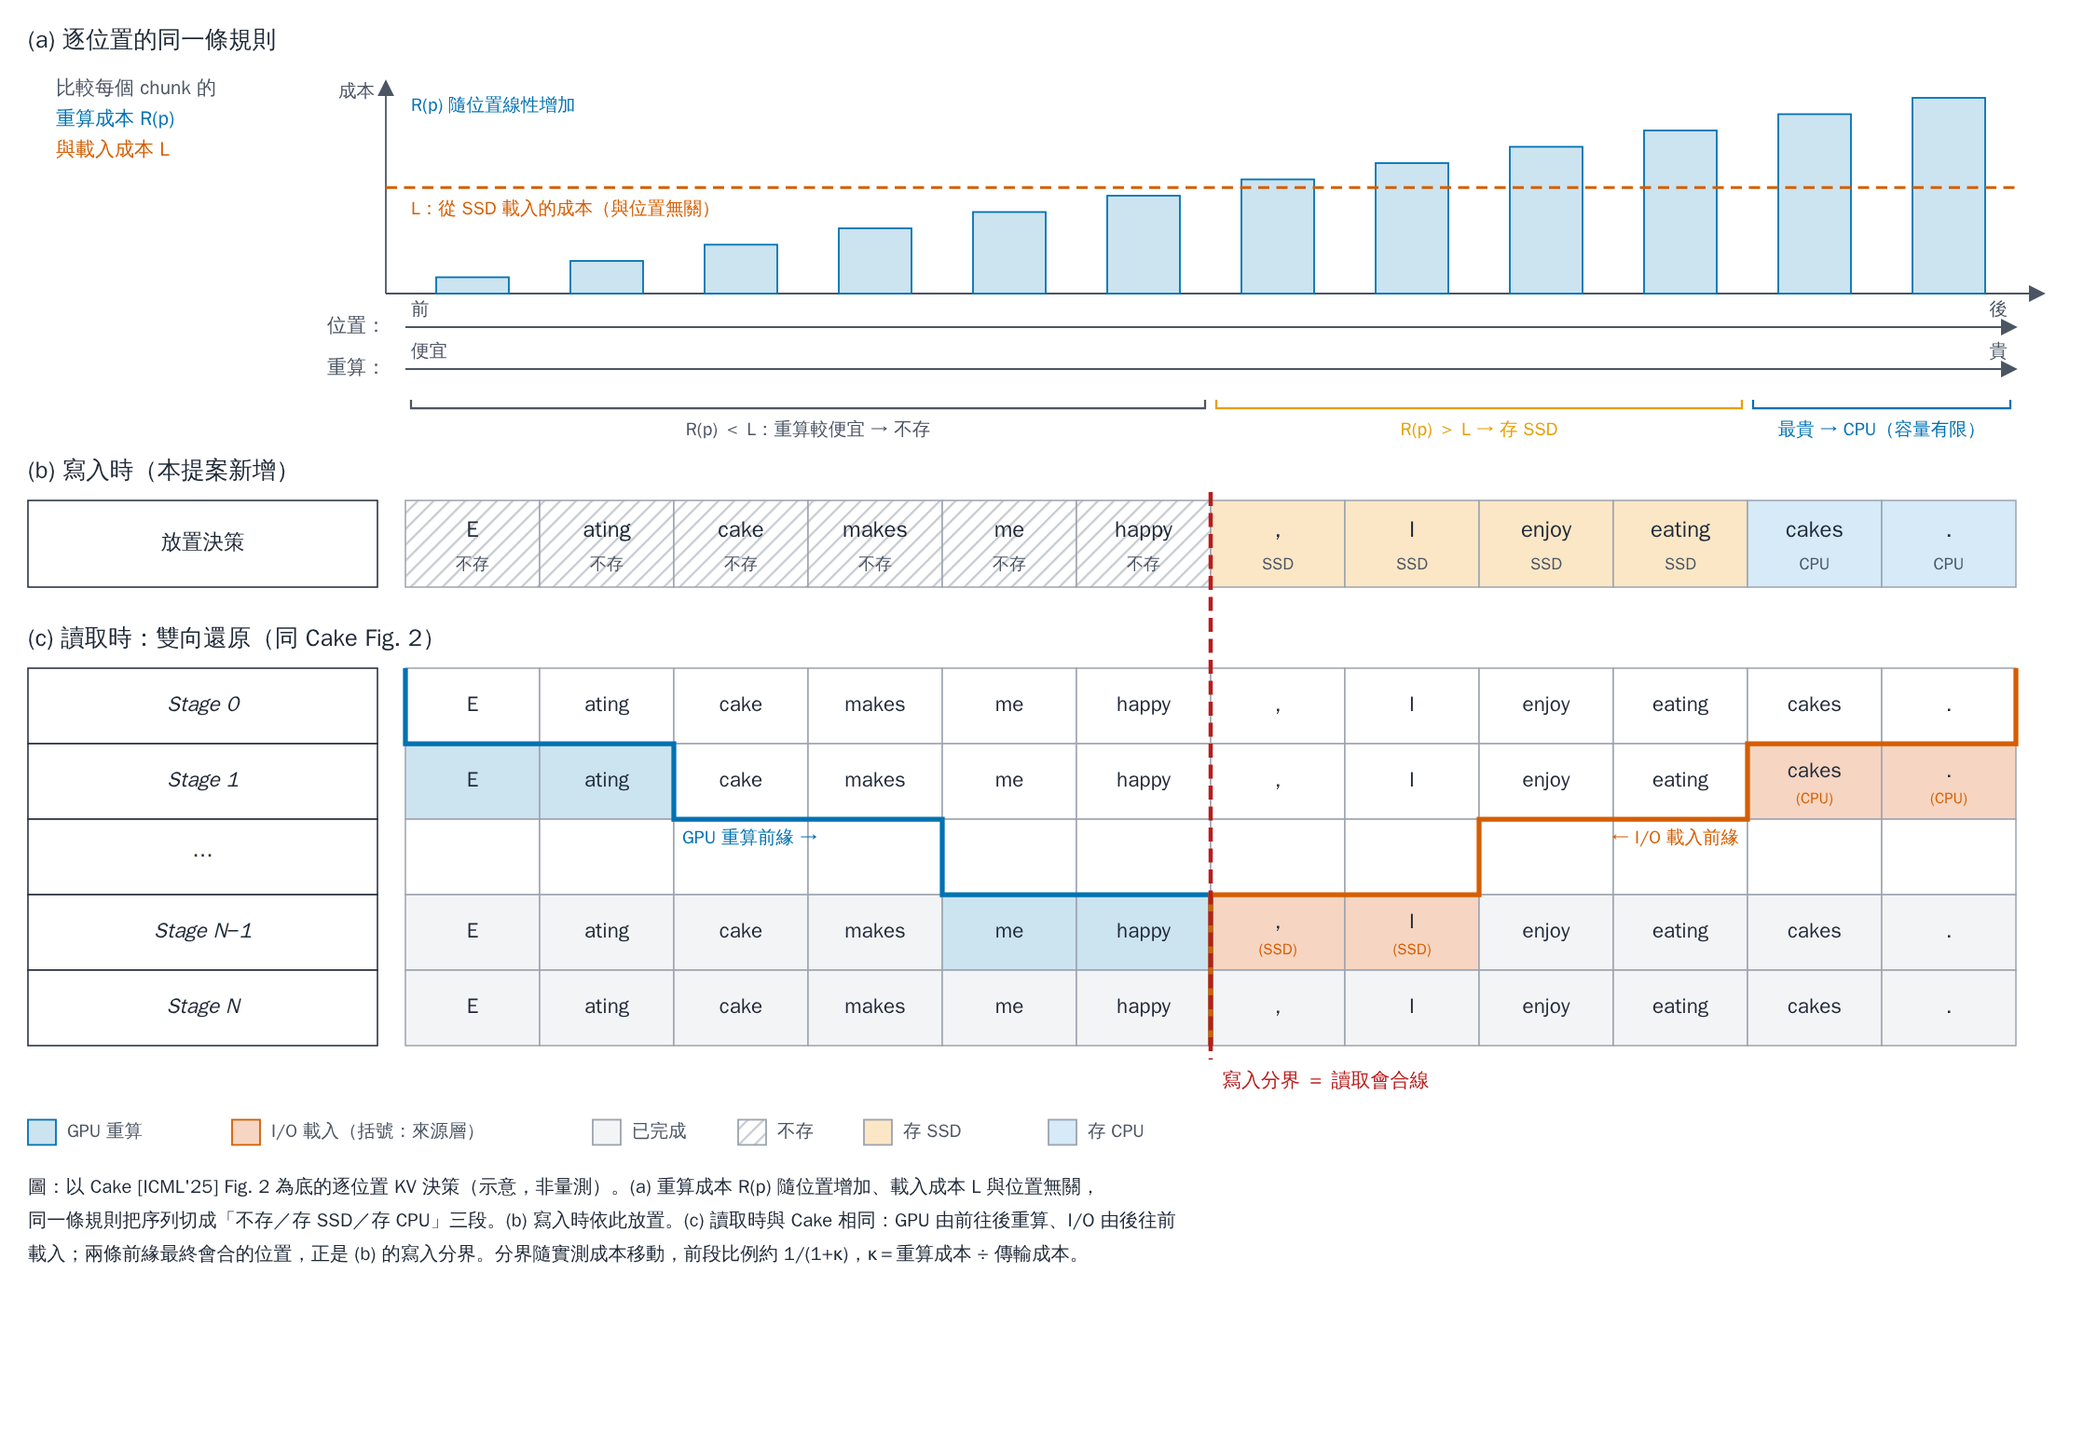
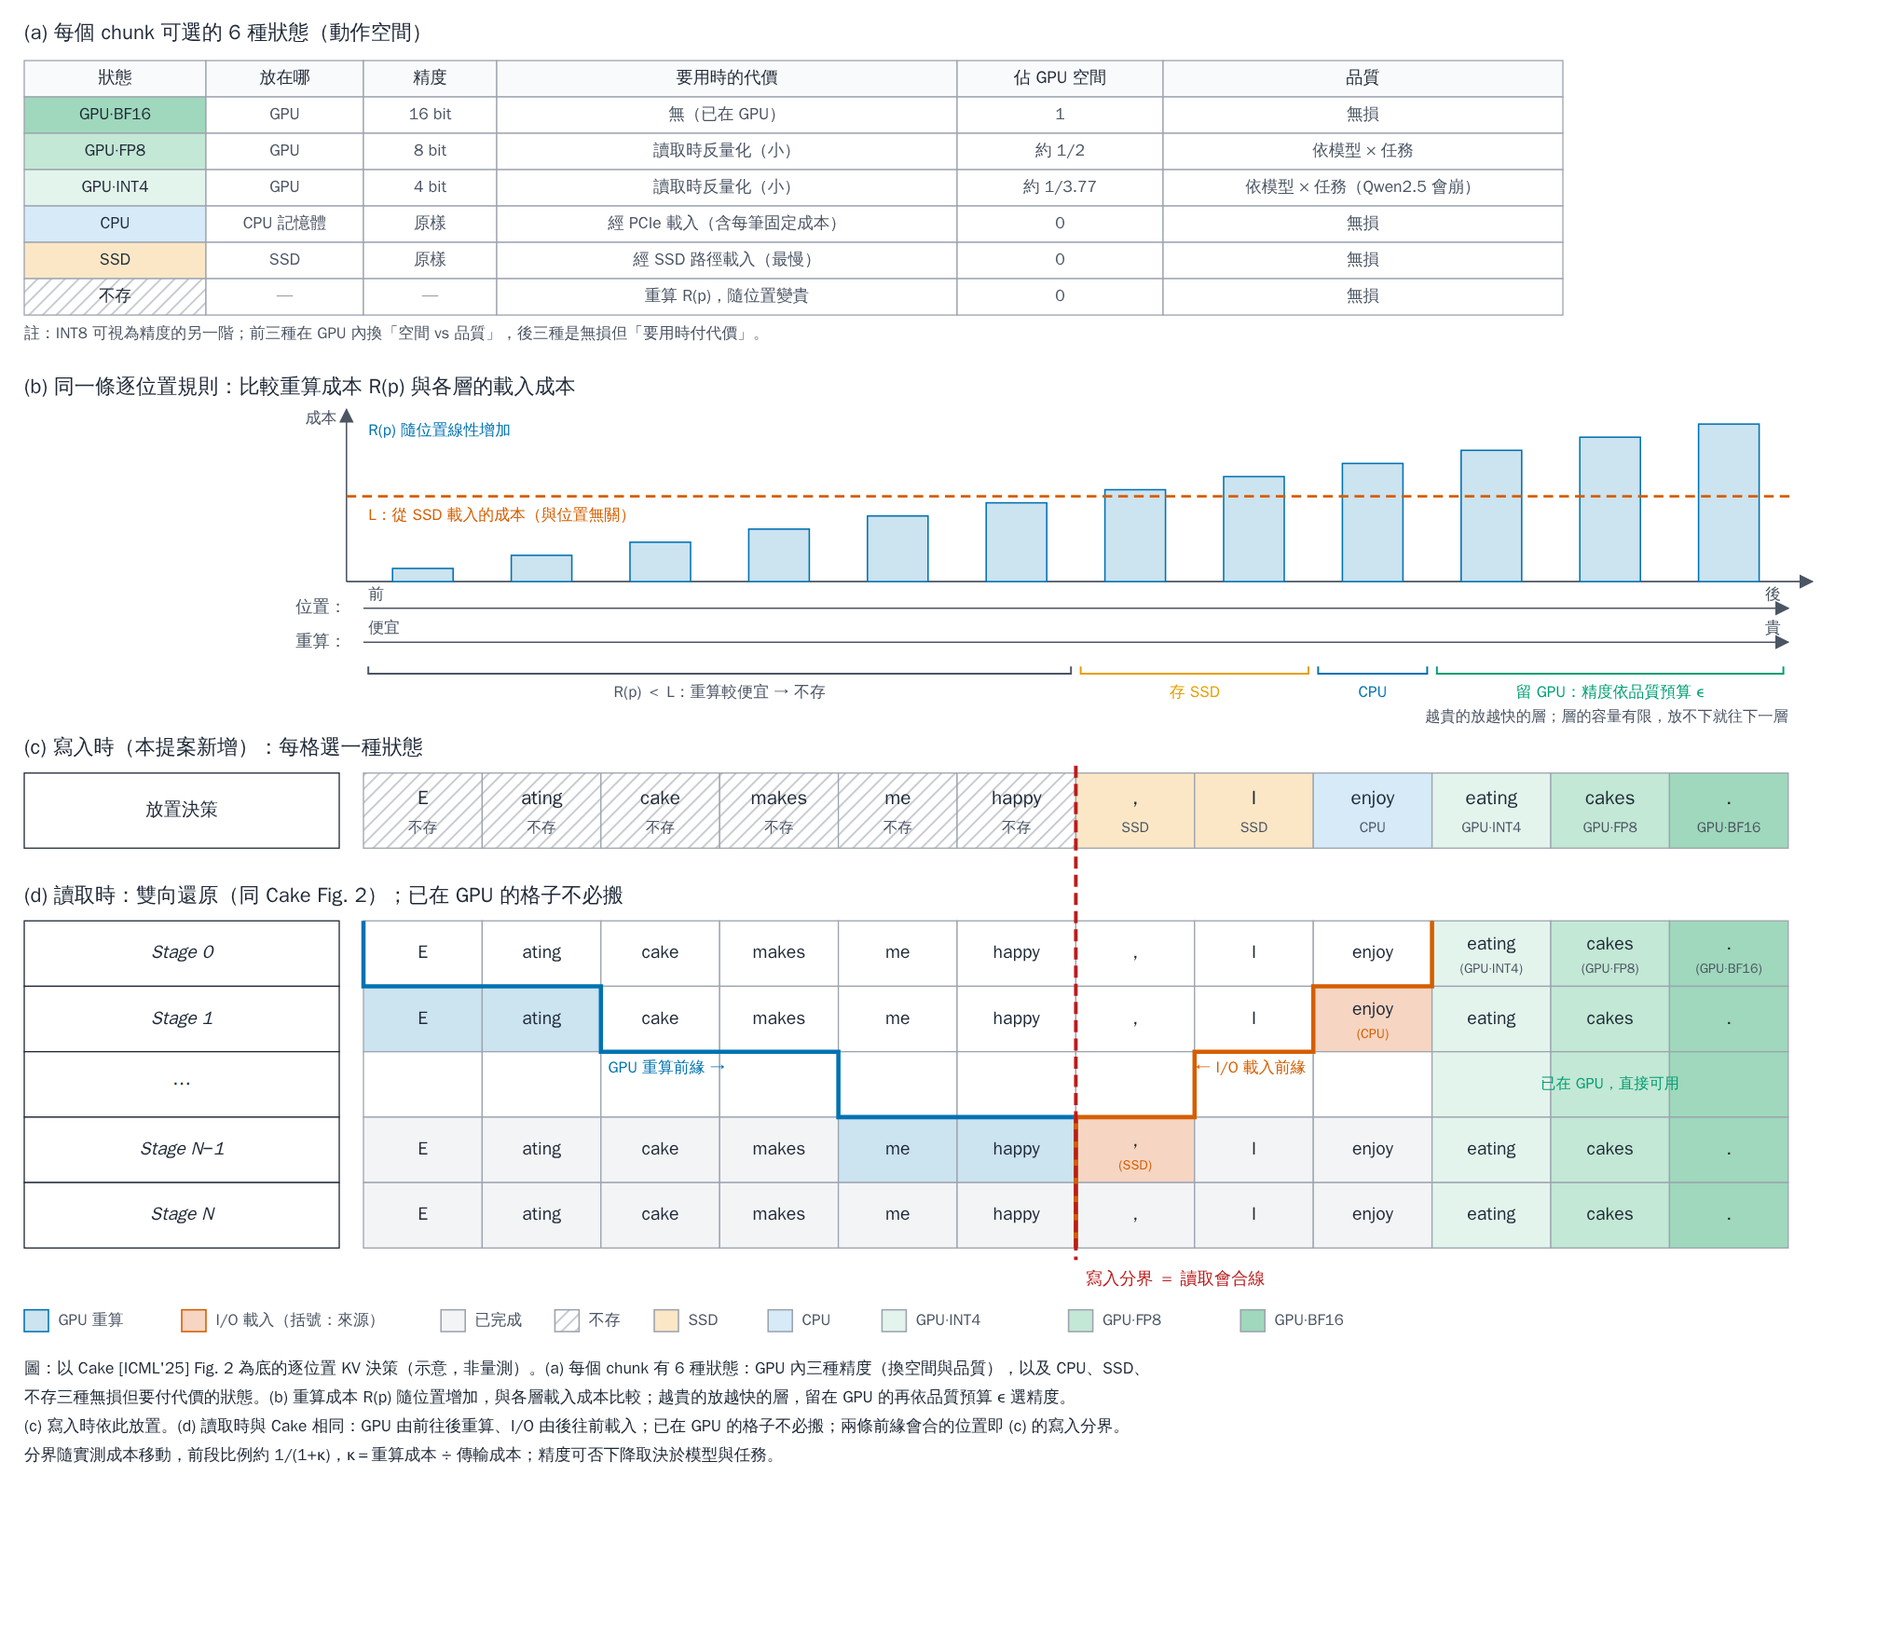
docs: 核心圖加入完整六態動作空間（GPU BF16/FP8/INT4、CPU、SSD、不存）
(a) 六態一覽表；(b) 逐位置規則延伸到 GPU 精度；(c) 寫入列出現全部狀態；
(d) 已在 GPU 的格子不必搬，前緣會合於寫入分界。

Claude-Session: https://claude.ai/code/session_01U1h9GuDMapTtPQi1jT6yJS

diff --git a/figures/specs/make_fig_cake_staircase.py b/figures/specs/make_fig_cake_staircase.py
@@ -1,107 +1,126 @@
-"""產生 figures/fig_cake_staircase.svg（學術風格）。
-以 Cake Fig. 2 為底：(a) 逐位置的同一條規則、(b) 寫入時的放置、(c) 讀取時的雙向還原；
-寫入分界與讀取會合線為同一條線。所有數值為示意，不是量測。"""
+"""產生 figures/fig_cake_staircase.svg（學術風格）：六態動作空間＋逐位置決策＋寫入分界＝讀取會合線。
+以 Cake Fig. 2 為底。所有數值與分界為示意，不是量測。"""
 toks=['E','ating','cake','makes','me','happy',',','I','enjoy','eating','cakes','.']
-N=12; MEET=6; CPU_FROM=10
-W=1500; X0=290; CW=96; RH=54; GRID='#9CA3AF'; INK='#1F2937'; MUTED='#4B5563'
+N=12; MEET=6
+# 每格狀態（示意）：0-5 不存、6-7 SSD、8 CPU、9 GPU-INT4、10 GPU-FP8、11 GPU-BF16
+state=['DROP']*6+['SSD','SSD','CPU','INT4','FP8','BF16']
+GPU0=9
+W=1560; X0=300; CW=98; RH=54; GRID='#9CA3AF'; INK='#1F2937'; MUTED='#4B5563'
 F='WenQuanYi Zen Hei, Noto Sans CJK TC, sans-serif'
-# Okabe–Ito
-BLUE='#0072B2'; VERM='#D55E00'; SKY='#56B4E9'; ORNG='#E69F00'
-C_COMP='#CCE3F0'; C_LOAD='#F6D5C2'; C_DONE='#F3F4F6'; C_SSD='#FBE7C6'; C_CPU='#D6EAF8'
+BLUE='#0072B2'; VERM='#D55E00'; ORNG='#E69F00'; GREEN='#009E73'
+C_COMP='#CCE3F0'; C_LOAD='#F6D5C2'; C_DONE='#F3F4F6'
+FILL={'DROP':'url(#hatch)','SSD':'#FBE7C6','CPU':'#D6EAF8','INT4':'#E3F4EC','FP8':'#C3E8D5','BF16':'#9FD8BC'}
+NAME={'DROP':'不存','SSD':'SSD','CPU':'CPU','INT4':'GPU·INT4','FP8':'GPU·FP8','BF16':'GPU·BF16'}
 out=[]
-def rect(x,y,w,h,fill,stroke=GRID,sw=1,extra=''):
-    out.append(f'<rect x="{x}" y="{y}" width="{w}" height="{h}" fill="{fill}" stroke="{stroke}" stroke-width="{sw}" {extra}/>')
+def rect(x,y,w,h,fill,stroke=GRID,sw=1):
+    out.append(f'<rect x="{x}" y="{y}" width="{w}" height="{h}" fill="{fill}" stroke="{stroke}" stroke-width="{sw}"/>')
 def text(x,y,t,size=15,color=INK,anchor='middle',weight='normal',style='normal'):
     out.append(f'<text x="{x}" y="{y}" font-size="{size}" fill="{color}" text-anchor="{anchor}" font-weight="{weight}" font-style="{style}" dominant-baseline="middle">{t}</text>')
 def poly(pts,color,sw=3,dash=None,marker=''):
     d=f' stroke-dasharray="{dash}"' if dash else ''
     p=' '.join(f'{x:.1f},{y:.1f}' for x,y in pts)
-    out.append(f'<polyline points="{p}" fill="none" stroke="{color}" stroke-width="{sw}" stroke-linejoin="miter" stroke-linecap="butt"{d}{marker}/>')
+    out.append(f'<polyline points="{p}" fill="none" stroke="{color}" stroke-width="{sw}" stroke-linejoin="miter"{d}{marker}/>')
 cx=lambda i: X0+i*CW
-defs=f'''<defs>
-<pattern id="hatch" width="8" height="8" patternUnits="userSpaceOnUse" patternTransform="rotate(45)">
+defs=f'''<defs><pattern id="hatch" width="8" height="8" patternUnits="userSpaceOnUse" patternTransform="rotate(45)">
 <rect width="8" height="8" fill="#FFFFFF"/><line x1="0" y1="0" x2="0" y2="8" stroke="#C7CBD1" stroke-width="3"/></pattern>
-<marker id="ah" markerWidth="10" markerHeight="10" refX="9" refY="5" orient="auto"><path d="M0,0 L10,5 L0,10 z" fill="{MUTED}"/></marker>
-</defs>'''
+<marker id="ah" markerWidth="10" markerHeight="10" refX="9" refY="5" orient="auto"><path d="M0,0 L10,5 L0,10 z" fill="{MUTED}"/></marker></defs>'''
 def panel(x,y,t): text(x,y,t,17,INK,'start','bold')
-# ---------------- (a) cost bars ----------------
-ya=30; panel(20,ya,'(a) 逐位置的同一條規則')
-text(40,ya+34,'比較每個 chunk 的',14,MUTED,'start'); text(40,ya+56,'重算成本 R(p)',14,BLUE,'start'); text(40,ya+78,'與載入成本 L',14,VERM,'start')
-Hmax=140; base=ya+40+Hmax
-# axes
+# ---------------- (a) 六態表 ----------------
+ya=28; panel(20,ya,'(a) 每個 chunk 可選的 6 種狀態（動作空間）')
+cols=[('狀態',150),('放在哪',130),('精度',110),('要用時的代價',380),('佔 GPU 空間',170),('品質',330)]
+rows_a=[('BF16','GPU','16 bit','無（已在 GPU）','1','無損'),
+        ('FP8','GPU','8 bit','讀取時反量化（小）','約 1/2','依模型 × 任務'),
+        ('INT4','GPU','4 bit','讀取時反量化（小）','約 1/3.77','依模型 × 任務（Qwen2.5 會崩）'),
+        ('CPU','CPU 記憶體','原樣','經 PCIe 載入（含每筆固定成本）','0','無損'),
+        ('SSD','SSD','原樣','經 SSD 路徑載入（最慢）','0','無損'),
+        ('DROP','—','—','重算 R(p)，隨位置變貴','0','無損')]
+tx=20; ty=ya+22; rh=30
+x=tx
+for name,w in cols:
+    rect(x,ty,w,rh,'#F9FAFB',GRID,1); text(x+w/2,ty+rh/2,name,14,INK,weight='bold'); x+=w
+for r,row in enumerate(rows_a):
+    x=tx; yy=ty+rh*(r+1)
+    for c,(name,w) in enumerate(cols):
+        f='#FFFFFF'
+        if c==0: f=FILL[row[0]]
+        rect(x,yy,w,rh,f,GRID,1)
+        val=NAME[row[0]] if c==0 else row[c]
+        text(x+w/2,yy+rh/2,val,13.5,INK if c==0 else MUTED); x+=w
+text(tx,ty+rh*7+16,'註：INT8 可視為精度的另一階；前三種在 GPU 內換「空間 vs 品質」，後三種是無損但「要用時付代價」。',13,MUTED,'start')
+# ---------------- (b) cost bars ----------------
+yb0=ty+rh*7+60; panel(20,yb0,'(b) 同一條逐位置規則：比較重算成本 R(p) 與各層的載入成本')
+Hmax=130; base=yb0+30+Hmax
 poly([(X0-14,base),(cx(N)+20,base)],MUTED,1.2,marker=' marker-end="url(#ah)"')
 poly([(X0-14,base),(X0-14,base-Hmax-12)],MUTED,1.2,marker=' marker-end="url(#ah)"')
 text(X0-22,base-Hmax-4,'成本',13,MUTED,'end')
 for i in range(N):
-    h=Hmax*(i+1)/N
-    rect(cx(i)+22,base-h,CW-44,h,C_COMP,BLUE,1.2)
+    h=Hmax*(i+1)/N; rect(cx(i)+24,base-h,CW-48,h,C_COMP,BLUE,1.2)
 LSSD=base-Hmax*(MEET+0.5)/N
 poly([(X0-14,LSSD),(cx(N)+4,LSSD)],VERM,2,'8 5')
 text(X0+4,LSSD+16,'L：從 SSD 載入的成本（與位置無關）',13,VERM,'start')
 text(X0+4,base-Hmax+6,'R(p) 隨位置線性增加',13,BLUE,'start')
-# axis captions (user-requested arrows)
-ax=base+24
-text(X0-14,ax,'位置：',14,MUTED,'end'); poly([(X0,ax),(cx(N),ax)],MUTED,1.2,marker=' marker-end="url(#ah)"'); text(X0+4,ax-12,'前',13,MUTED,'start'); text(cx(N)-6,ax-12,'後',13,MUTED,'end')
-ax2=ax+30
-text(X0-14,ax2,'重算：',14,MUTED,'end'); poly([(X0,ax2),(cx(N),ax2)],MUTED,1.2,marker=' marker-end="url(#ah)"'); text(X0+4,ax2-12,'便宜',13,MUTED,'start'); text(cx(N)-6,ax2-12,'貴',13,MUTED,'end')
-# region brackets
-yb=ax2+28
+ax=base+22
+text(X0-14,ax,'位置：',14,MUTED,'end'); poly([(X0,ax),(cx(N),ax)],MUTED,1.2,marker=' marker-end="url(#ah)"'); text(X0+4,ax-11,'前',13,MUTED,'start'); text(cx(N)-6,ax-11,'後',13,MUTED,'end')
+ax2=ax+28
+text(X0-14,ax2,'重算：',14,MUTED,'end'); poly([(X0,ax2),(cx(N),ax2)],MUTED,1.2,marker=' marker-end="url(#ah)"'); text(X0+4,ax2-11,'便宜',13,MUTED,'start'); text(cx(N)-6,ax2-11,'貴',13,MUTED,'end')
+yb=ax2+26
 def bracket(i0,i1,label,color):
     x1=cx(i0)+4; x2=cx(i1)-4
-    poly([(x1,yb-6),(x1,yb),(x2,yb),(x2,yb-6)],color,1.5)
-    text((x1+x2)/2,yb+16,label,13,color)
+    poly([(x1,yb-6),(x1,yb),(x2,yb),(x2,yb-6)],color,1.5); text((x1+x2)/2,yb+16,label,13,color)
 bracket(0,MEET,'R(p) ＜ L：重算較便宜 → 不存',MUTED)
-bracket(MEET,CPU_FROM,'R(p) ＞ L → 存 SSD',ORNG)
-bracket(CPU_FROM,N,'最貴 → CPU（容量有限）',BLUE)
-# ---------------- (b) write row ----------------
-yw=yb+62; panel(20,yw-16,'(b) 寫入時（本提案新增）')
-rect(20,yw+4,250,RH+8,'#FFFFFF',INK,1); text(145,yw+4+(RH+8)/2,'放置決策',15)
+bracket(MEET,8,'存 SSD',ORNG)
+bracket(8,GPU0,'CPU',BLUE)
+bracket(GPU0,N,'留 GPU：精度依品質預算 ε',GREEN)
+text(cx(N),yb+36,'越貴的放越快的層；層的容量有限，放不下就往下一層',12.5,MUTED,'end')
+# ---------------- (c) write row ----------------
+yw=yb+78; panel(20,yw-16,'(c) 寫入時（本提案新增）：每格選一種狀態')
+rect(20,yw+4,260,RH+8,'#FFFFFF',INK,1); text(150,yw+4+(RH+8)/2,'放置決策',15)
 for i,t in enumerate(toks):
-    if i<MEET: f,sub='url(#hatch)','不存'
-    elif i>=CPU_FROM: f,sub=C_CPU,'CPU'
-    else: f,sub=C_SSD,'SSD'
-    rect(cx(i),yw+4,CW,RH+8,f,GRID,1)
-    text(cx(i)+CW/2,yw+4+22,t,16); text(cx(i)+CW/2,yw+4+46,sub,12,MUTED)
-# ---------------- (c) read stages ----------------
-ys=yw+RH+8+62; panel(20,ys-20,'(c) 讀取時：雙向還原（同 Cake Fig. 2）')
-stages=[('Stage 0',0,N),('Stage 1',2,10),('⋯',4,8),('Stage N−1',6,6),('Stage N',6,6)]
+    rect(cx(i),yw+4,CW,RH+8,FILL[state[i]],GRID,1)
+    text(cx(i)+CW/2,yw+4+22,t,16); text(cx(i)+CW/2,yw+4+46,NAME[state[i]],12,MUTED)
+# ---------------- (d) read ----------------
+ys=yw+RH+8+64; panel(20,ys-20,'(d) 讀取時：雙向還原（同 Cake Fig. 2）；已在 GPU 的格子不必搬')
+stages=[('Stage 0',0,GPU0),('Stage 1',2,8),('⋯',4,7),('Stage N−1',6,6),('Stage N',6,6)]
 rows=[]
 for r,(name,c,io) in enumerate(stages):
     yy=ys+r*RH; rows.append(yy)
-    rect(20,yy,250,RH,'#FFFFFF',INK,1); text(145,yy+RH/2,name,15,style='italic' if name!='⋯' else 'normal')
+    rect(20,yy,260,RH,'#FFFFFF',INK,1); text(150,yy+RH/2,name,15,style='italic' if name!='⋯' else 'normal')
+    prev_io = stages[r-1][2] if r>0 else N
     for i,t in enumerate(toks):
         sub=None; f='#FFFFFF'; lab=t
-        if name=='Stage N': f=C_DONE
-        elif name=='Stage N−1':
-            f=C_COMP if i in(4,5) else (C_LOAD if i in(6,7) else C_DONE); sub='SSD' if i in(6,7) else None
-        elif name=='Stage 1':
-            f=C_COMP if i<2 else (C_LOAD if i>=10 else '#FFFFFF'); sub='CPU' if i>=10 else None
-        elif name=='⋯': lab=''
+        if i>=GPU0: f=FILL[state[i]]; sub=NAME[state[i]] if name=='Stage 0' else None
+        elif name=='Stage N': f=C_DONE
+        elif i<c: f=C_DONE
+        elif i>=io: f=C_DONE
+        if name!='Stage N' and name!='⋯':
+            if c-2<=i<c and c>0: f=C_COMP
+            if io<=i<prev_io and i<GPU0: f=C_LOAD; sub=state[i]
+        if name=='Stage 0' and i<GPU0: f='#FFFFFF'
+        if name=='⋯': lab='' ; f='#FFFFFF' if i<GPU0 else FILL[state[i]]
         rect(cx(i),yy,CW,RH,f,GRID,1)
-        if sub: text(cx(i)+CW/2,yy+20,lab,15); text(cx(i)+CW/2,yy+40,'('+sub+')',11,VERM)
+        if sub: text(cx(i)+CW/2,yy+20,lab,15); text(cx(i)+CW/2,yy+40,'('+sub+')',11,VERM if f==C_LOAD else MUTED)
         else: text(cx(i)+CW/2,yy+RH/2,lab,15)
 def stair(vals,color):
     pts=[]
-    for r,v in enumerate(vals):
-        x=cx(v); pts+= [(x,rows[r]),(x,rows[r]+RH)]
+    for r,v in enumerate(vals): x=cx(v); pts+=[(x,rows[r]),(x,rows[r]+RH)]
     poly(pts,color,3.5)
 stair([s[1] for s in stages],BLUE); stair([s[2] for s in stages],VERM)
 text(cx(2)+6,rows[1]+RH+14,'GPU 重算前緣 →',13,BLUE,'start')
-text(cx(10)-6,rows[1]+RH+14,'← I/O 載入前緣',13,VERM,'end')
-# unified boundary line
+text(cx(8)-6,rows[1]+RH+14,'← I/O 載入前緣',13,VERM,'end')
+text(cx(GPU0)+3*CW/2,rows[2]+RH/2,'已在 GPU，直接可用',12.5,GREEN)
 xm=cx(MEET); ytop=yw-2; ybot=rows[-1]+RH+10
 poly([(xm,ytop),(xm,ybot)],'#B91C1C',3,'10 5')
 text(xm+8,ybot+16,'寫入分界 ＝ 讀取會合線',14,'#B91C1C','start','bold')
-# legend
-yl=ybot+52
-items=[(C_COMP,BLUE,'GPU 重算'),(C_LOAD,VERM,'I/O 載入（括號：來源層）'),(C_DONE,GRID,'已完成'),('url(#hatch)',GRID,'不存'),(C_SSD,GRID,'存 SSD'),(C_CPU,GRID,'存 CPU')]
+# legend & caption
+yl=ybot+50
+items=[(C_COMP,BLUE,'GPU 重算'),(C_LOAD,VERM,'I/O 載入（括號：來源）'),(C_DONE,GRID,'已完成'),('url(#hatch)',GRID,'不存'),(FILL['SSD'],GRID,'SSD'),(FILL['CPU'],GRID,'CPU'),(FILL['INT4'],GRID,'GPU·INT4'),(FILL['FP8'],GRID,'GPU·FP8'),(FILL['BF16'],GRID,'GPU·BF16')]
 x=20
 for f,s,t in items:
-    rect(x,yl-9,20,18,f,s,1.2); text(x+28,yl,t,13,MUTED,'start'); x+=28+len(t)*14+34
-# caption
-cap=['圖：以 Cake [ICML\'25] Fig. 2 為底的逐位置 KV 決策（示意，非量測）。(a) 重算成本 R(p) 隨位置增加、載入成本 L 與位置無關，',
-     '同一條規則把序列切成「不存／存 SSD／存 CPU」三段。(b) 寫入時依此放置。(c) 讀取時與 Cake 相同：GPU 由前往後重算、I/O 由後往前',
-     '載入；兩條前緣最終會合的位置，正是 (b) 的寫入分界。分界隨實測成本移動，前段比例約 1/(1+κ)，κ＝重算成本 ÷ 傳輸成本。']
+    rect(x,yl-9,20,18,f,s,1.2); text(x+28,yl,t,13,MUTED,'start'); x+=28+len(t)*12+30
+cap=['圖：以 Cake [ICML\'25] Fig. 2 為底的逐位置 KV 決策（示意，非量測）。(a) 每個 chunk 有 6 種狀態：GPU 內三種精度（換空間與品質），以及 CPU、SSD、',
+     '不存三種無損但要付代價的狀態。(b) 重算成本 R(p) 隨位置增加，與各層載入成本比較；越貴的放越快的層，留在 GPU 的再依品質預算 ε 選精度。',
+     '(c) 寫入時依此放置。(d) 讀取時與 Cake 相同：GPU 由前往後重算、I/O 由後往前載入；已在 GPU 的格子不必搬；兩條前緣會合的位置即 (c) 的寫入分界。',
+     '分界隨實測成本移動，前段比例約 1/(1+κ)，κ＝重算成本 ÷ 傳輸成本；精度可否下降取決於模型與任務。']
 for k,t in enumerate(cap): text(20,yl+40+k*24,t,13.5,INK,'start')
 H=int(yl+40+len(cap)*24+16)
 svg=f'<svg xmlns="http://www.w3.org/2000/svg" viewBox="0 0 {W} {H}" width="{W}" height="{H}" font-family="{F}">{defs}<rect width="{W}" height="{H}" fill="#FFFFFF"/>'+''.join(out)+'</svg>'

diff --git a/docs/DIRECTION_CAKE_EXTENSION.md b/docs/DIRECTION_CAKE_EXTENSION.md
@@ -78,10 +78,11 @@
 
 ![逐位置決策：寫入分界等於讀取會合線](../figures/fig_cake_staircase.png)
 
-- **(a)** 每個 chunk 比較「重算成本 R(p)」與「從 SSD 載入的成本 L」。R(p) 隨位置變貴，L 跟位置無關，所以同一條規則自然把序列切成三段：不存、存 SSD、最貴的放容量有限的 CPU。左右不是兩套規則。
-- **(b)** 寫入時照這條規則放置。
-- **(c)** 讀取時跟 Cake 一樣：藍色階梯是 GPU 重算往右推進的前緣，橘色階梯是 I/O 載入往左推進的前緣。兩條前緣最後會合的位置（紅色虛線），正好就是 (b) 的寫入分界。
-- 分界會隨實測成本移動：搬得越慢，會合線越往右，不存的越多。
+- **(a)** 每個 chunk 有 6 種狀態，不是只有 3 種：GPU 內的 BF16、FP8、INT4（用品質換空間），以及 CPU、SSD、不存（無損，但要用時付代價）。INT8 可視為精度的另一階。
+- **(b)** 同一條逐位置規則：重算成本 R(p) 隨位置變貴，跟各層的載入成本比較。重算比較便宜的不存；越貴的放越快的層（SSD → CPU → GPU）。留在 GPU 的，再依品質預算 ε 選 BF16、FP8 或 INT4。左右不是兩套規則。
+- **(c)** 寫入時，每一格選一種狀態，六種狀態都會出現。
+- **(d)** 讀取時跟 Cake 一樣：藍色階梯是 GPU 重算的前緣，橘色階梯是 I/O 載入的前緣。已經在 GPU 的格子直接可用，不必搬。兩條前緣會合的位置（紅色虛線），正好是 (c) 的寫入分界。
+- 分界會隨實測成本移動；精度能不能降，取決於模型與任務。
 
 產生方式：`python3 figures/specs/make_fig_cake_staircase.py`（輸出 `figures/fig_cake_staircase.svg`）；配色用色盲友善的 Okabe–Ito 色系；圖中數值為示意。
 
